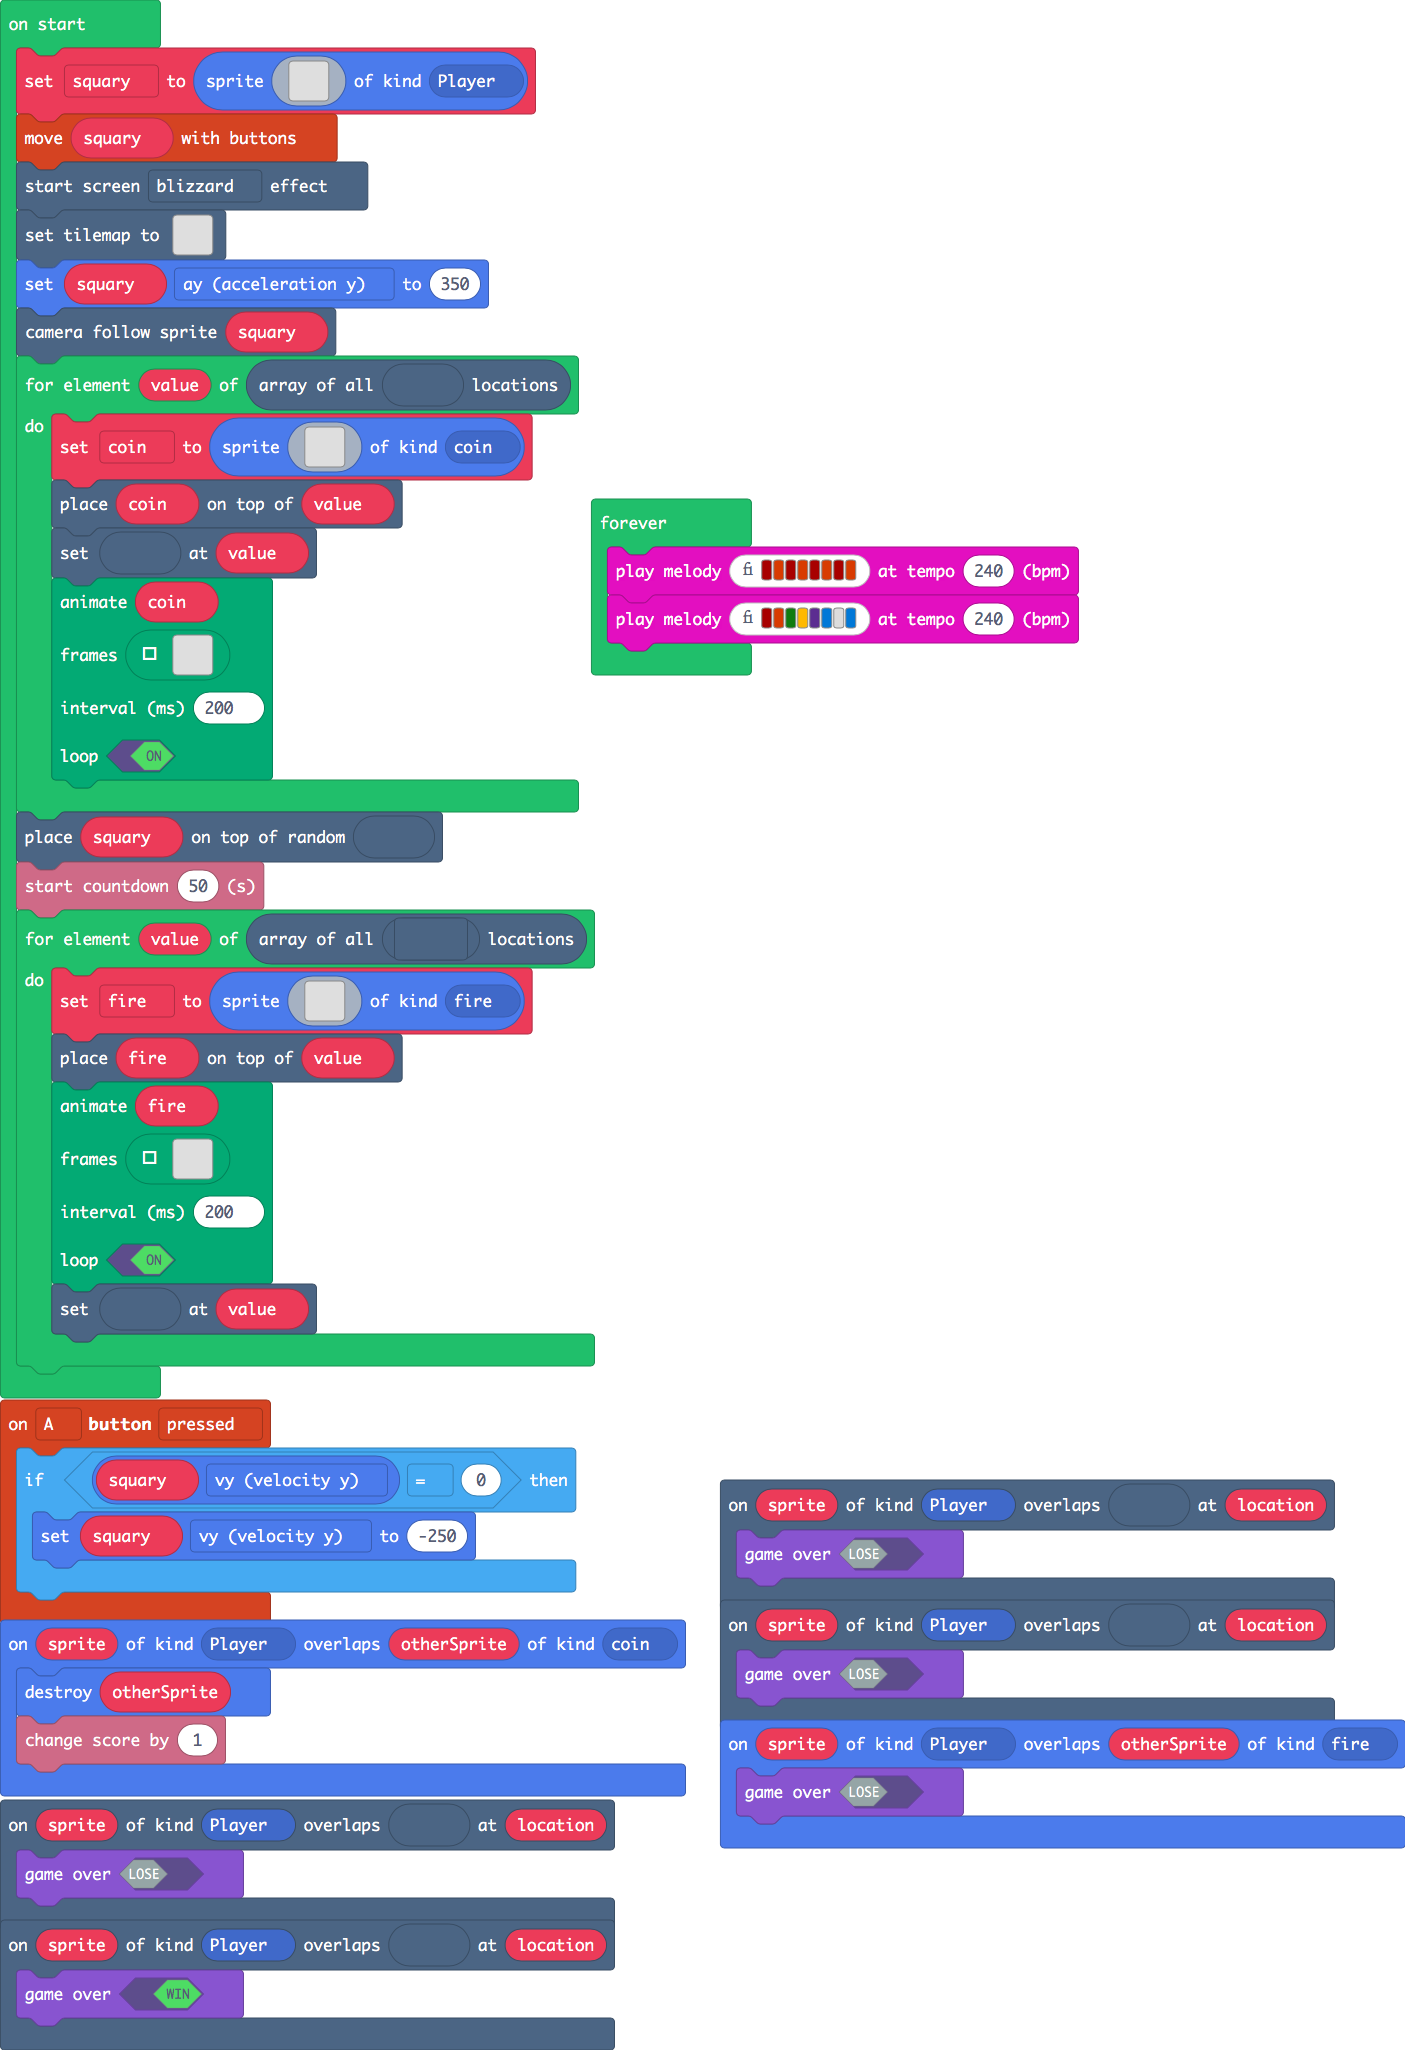
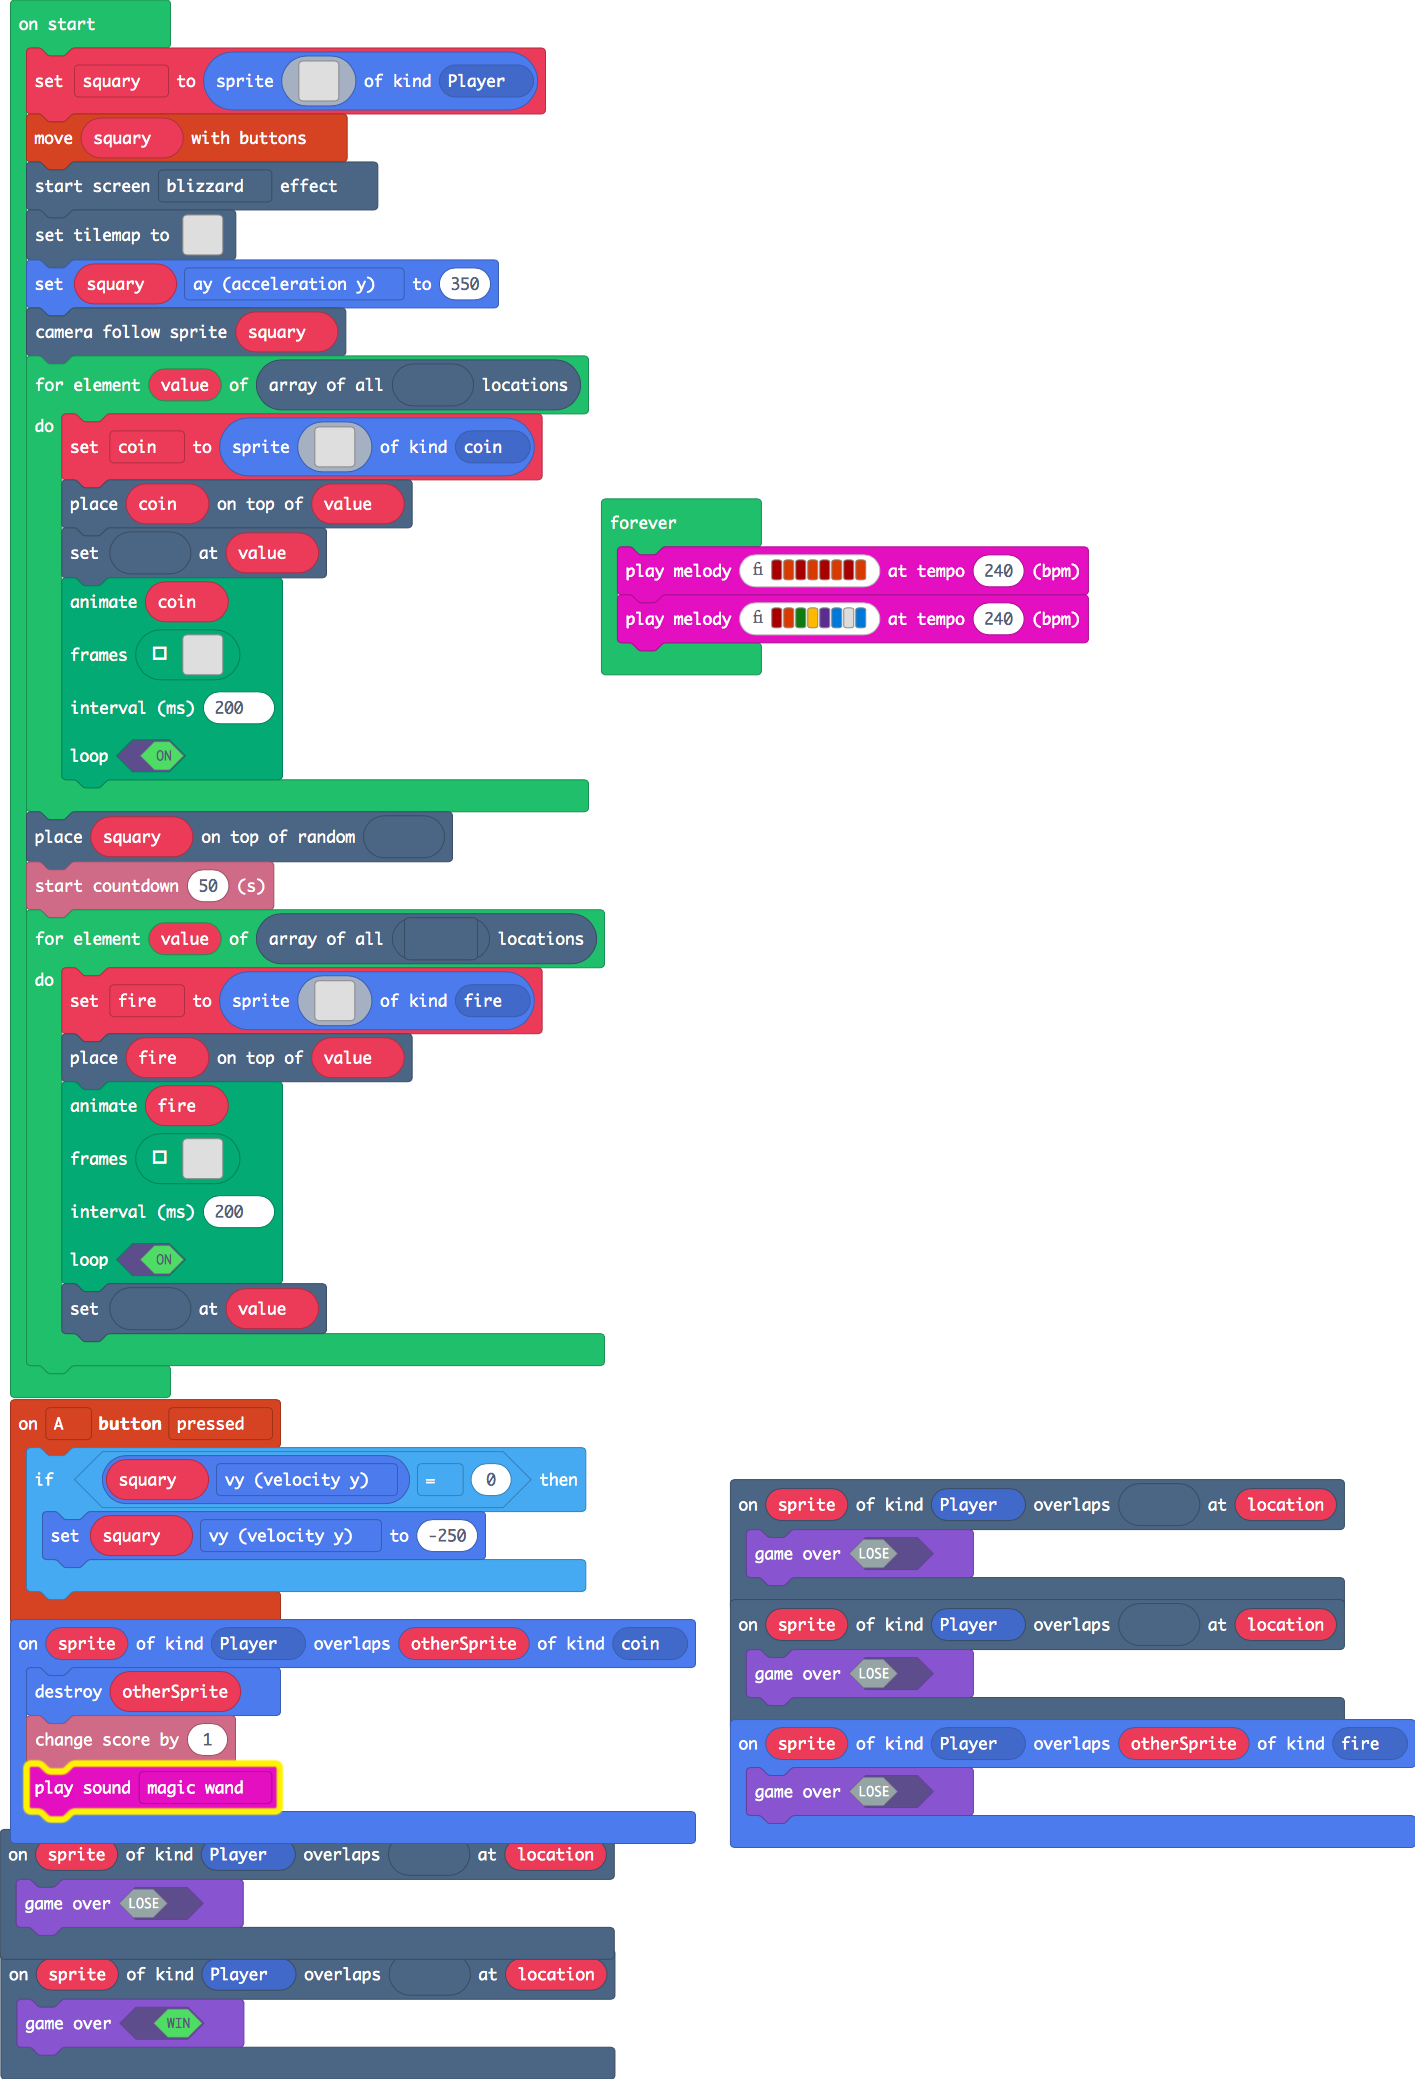
Update main.blocks, main.ts

diff --git a/main.ts b/main.ts
@@ -187,6 +187,7 @@ scene.onOverlapTile(SpriteKind.Player, myTiles.tile3, function (sprite, location
 sprites.onOverlap(SpriteKind.Player, SpriteKind.coin, function (sprite, otherSprite) {
     otherSprite.destroy()
     info.changeScoreBy(1)
+    music.magicWand.play()
 })
 controller.A.onEvent(ControllerButtonEvent.Pressed, function () {
     if (squary.vy == 0) {
